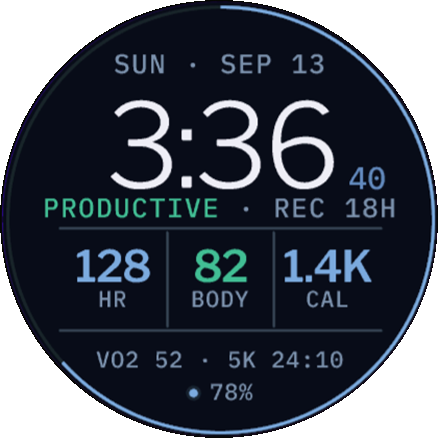
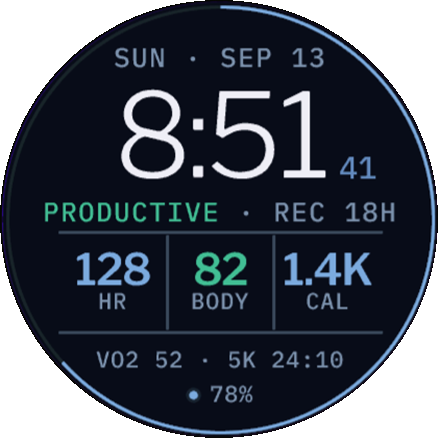
Rebalance layout and thicken panel rules
- Lift the date+time pair so the gap below the time (into the coach line)
  matches the gap into the footer; the training-status line is no longer
  crowded against the time.
- Stroke the stats-panel rules at Layout.railPen (~3 px, scaled to the
  screen) instead of a fixed 2 px, so sections read clearly at arm's length.
- Refresh docs/preview.png to the updated layout.

diff --git a/README.md b/README.md
@@ -60,11 +60,13 @@ so a busy day never breaks the layout.
 ```
 
 Vertical rhythm: the whole stack is centered in the circle (not sitting low), so the top does not read
-as dead space. Three even zones: date+time, coach+panel, footer+battery. The date is a tight eyebrow
-directly above the time. The middle zone is one framed stats panel whose top rule doubles as the coach
-line's underline, so there is a single strong divider rather than two faint ones; each cell's value and
-label are centered between the rules. Structural rules use a brighter steel (`Theme.GRID`) at 2 px so
-sections read at arm's length; only the intensity ring track stays intentionally faint.
+as dead space. Three even zones: date+time, coach+panel, footer+battery. The date+time pair rides high
+enough that the gap below the time (into the coach line) matches the gap below the panel (into the
+footer), so no zone feels crowded. The middle zone is one framed stats panel whose top rule doubles as
+the coach line's underline, so there is a single strong divider rather than two faint ones; each cell's
+value and label are centered between the rules. Structural rules use a brighter steel (`Theme.GRID`),
+stroked at `Layout.railPen` (~3 px, scaled to the screen) so sections read clearly at arm's length; only
+the intensity ring track stays intentionally faint.
 
 Always-on display shows the time only, in the receded accent tone on black, micro-shifted each minute.
 
